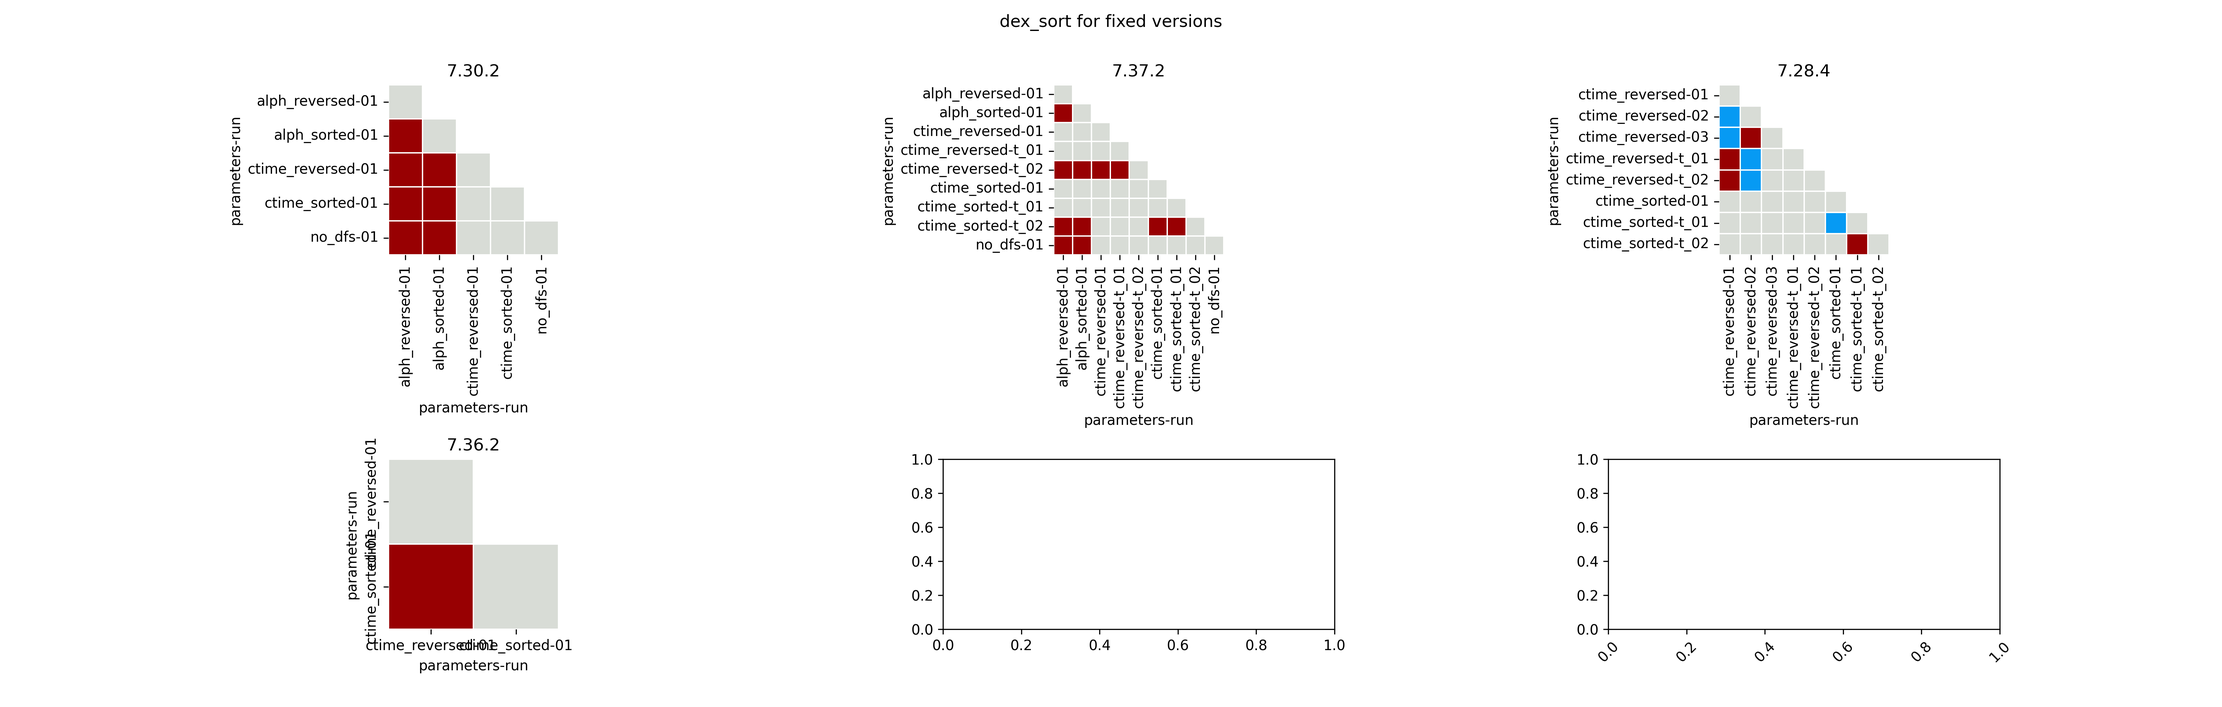
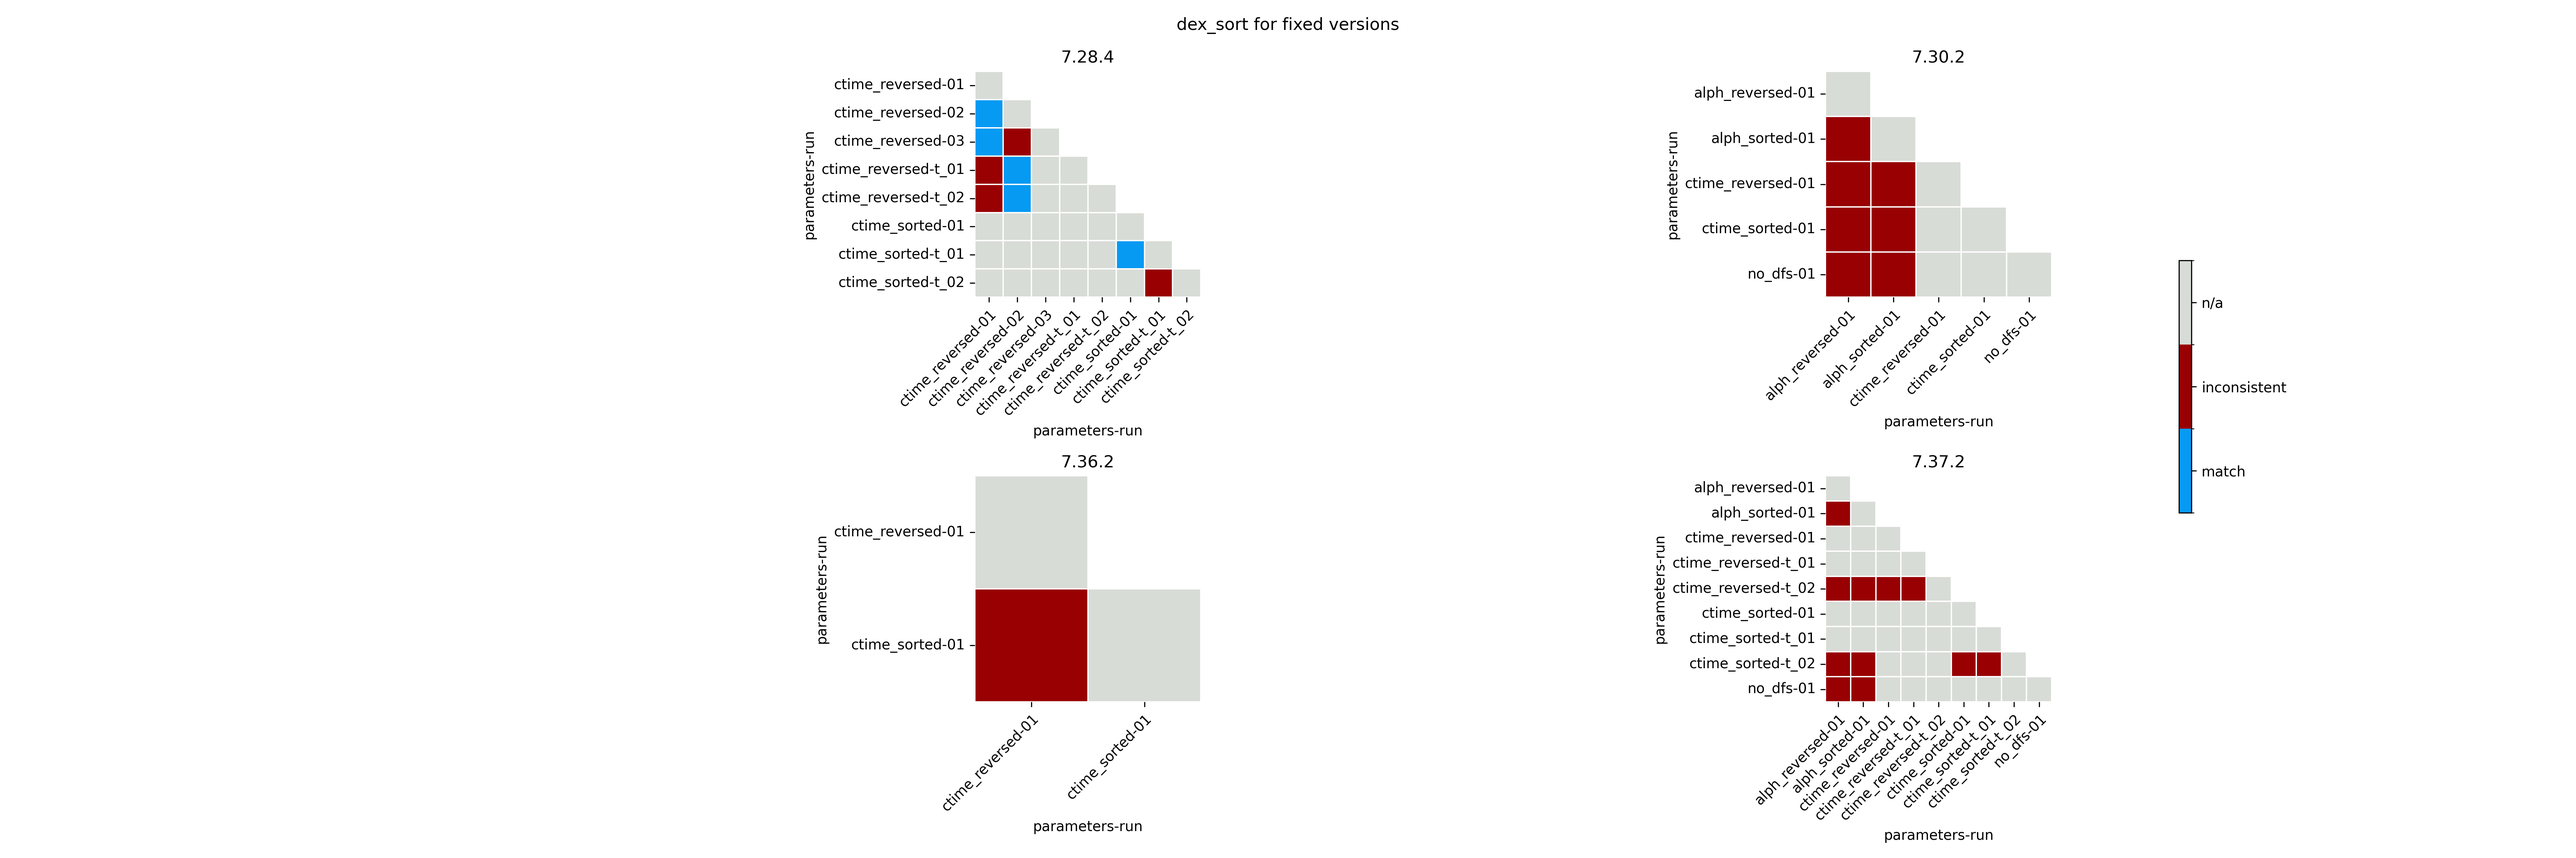
plots are sorta decent (code is terriblu)

diff --git a/analysis/plotinator.py b/analysis/plotinator.py
@@ -91,6 +91,8 @@ def subfigures(test, fixed_version):
     all_files = os.listdir(root)
     i = 0
     plot_idx = 1
+
+    successful_plots = []
     # call plotting
     for x in range(nr_x):
         for y in range(nr_y):
@@ -109,10 +111,111 @@ def subfigures(test, fixed_version):
                 axes[x, y].set_title(
                     all_files[i].replace(".json", "").replace("_", " ")
                 )
+                # Record the successful plot
+                successful_plots.append(
+                    {
+                        "ax": axes[x, y],
+                        "title": all_files[i].replace(".json", "").replace("_", " "),
+                        "position": (x, y),
+                    }
+                )
                 i = i + 1
                 plot_idx = plot_idx + 1
                 # axes[x, y].tick_params(axis='x', labelrotation=45)
-    plt.subplots_adjust(hspace=1.2, wspace=0.7)
+            else:
+                # No more files to plot, hide the remaining axes
+                axes[x, y].set_visible(False)
+
+    cbar_shrink = 0.5
+    total_plots = len(successful_plots)
+    if total_plots > 0:
+        # Calculate optimal grid dimensions
+        optimal_cols = int(np.ceil(np.sqrt(total_plots)))
+        optimal_rows = int(np.ceil(total_plots / optimal_cols))
+
+        # Only rearrange if the current layout is not optimal
+        if nr_x != optimal_rows or nr_y != optimal_cols:
+            print(f"Rebalancing layout to {optimal_rows}x{optimal_cols}")
+            cbar_shrink = 0.4
+            # Hide all current axes
+            for x in range(nr_x):
+                for y in range(nr_y):
+                    axes[x, y].set_visible(False)
+
+            # Create a new figure with optimal dimensions
+            new_fig, new_axes = plt.subplots(
+                nrows=optimal_rows,
+                ncols=optimal_cols,
+                figsize=(optimal_cols * 12.75, optimal_rows * 4.25),
+            )
+
+            # Make sure new_axes is a 2D array
+            if optimal_rows == 1 and optimal_cols == 1:
+                new_axes = np.array([[new_axes]])
+            elif optimal_rows == 1:
+                new_axes = new_axes.reshape(1, -1)
+            elif optimal_cols == 1:
+                new_axes = new_axes.reshape(-1, 1)
+
+            # Copy content from old figure to new figure
+            for idx, plot in enumerate(successful_plots):
+                new_x = idx // optimal_cols
+                new_y = idx % optimal_cols
+
+                # Get the old plot's content and transfer it
+                # This is a simplified approach - in reality, you may need to
+                # re-run correlation_triangle with the new axes
+                old_ax = plot["ax"]
+                new_ax = new_axes[new_x, new_y]
+
+                # Transfer the title
+                new_ax.set_title(plot["title"])
+
+                # Re-run correlation_triangle with the new axis
+                # old_pos = plot['position']
+                file_name = plot["title"].replace(" ", "_") + ".json"
+                correlation_triangle(
+                    fixed_version, new_ax, os.path.join(root, file_name)
+                )
+
+            # Set the title on the new figure
+            new_fig.suptitle(f"{test} for {version_or_params.replace('_', ' ')}")
+
+            # # Adjust spacing for the new figure
+            # new_fig.subplots_adjust(hspace=1.4, wspace=0.9)
+
+            # # Save the new figure and close the old one
+            # new_fig.savefig(os.path.join(PLOT_ROOT, f"{test}_{version_or_params}"), dpi=300)
+            plt.close(fig)
+
+            fig = new_fig
+            axes = new_axes
+            # return
+
+    # plt.subplots_adjust(hspace=1.4, wspace=1.4)
+    plt.tight_layout()
+
+    # cax = plt.axes((0.85, 0.1, 0.075, 0.8))
+    # plt.colorbar(cax=cax)
+    import matplotlib as mpl
+
+    # cmap = mpl.cm.viridis
+
+    colors = ["xkcd:azure", "xkcd:blood red", "xkcd:light grey"]
+    cmap = LinearSegmentedColormap.from_list("Custom", colors, len(colors))
+    # cmap = (mpl.colors.ListedColormap(['red', 'green', 'blue']))
+    bounds = [0, 1, 2, 3]
+    norm = mpl.colors.BoundaryNorm(bounds, 4)
+
+    cbar = fig.colorbar(
+        mpl.cm.ScalarMappable(norm=norm, cmap=cmap),
+        ax=axes,
+        orientation="vertical",
+        ticks=[0.5, 1.5, 2.5],
+        shrink=cbar_shrink,
+    )
+    cbar.set_ticklabels(["match", "inconsistent", "n/a"])
+
     plt.savefig(os.path.join(PLOT_ROOT, f"{test}_{version_or_params}"), dpi=300)
 
 
@@ -162,7 +265,16 @@ def correlation_triangle(fixed_version, ax, filepath, cbar_ax=None):
                 colorbar.set_ticks([0, 1, 2])
                 # # I save (len(diff) > 0) => true means inconsitent
                 colorbar.set_ticklabels(["match", "inconsistent", "n/a"])
-            plt.xticks(rotation=45)
+                colorbar.visible = False
+            # plt.xticks(rotation=90)
+            plt.setp(
+                ax.get_xticklabels(), rotation=45, ha="right", rotation_mode="anchor"
+            )
+            plt.setp(
+                ax.get_yticklabels(), rotation=0, ha="right", rotation_mode="anchor"
+            )
+
+            # ax.set_yticks(rotation=90)
     else:
         print(f"Skipped {filepath}...")
         return False
@@ -194,7 +306,7 @@ def visualize():
         print(test)
         for fixed_version in [True, False]:
             subfigures(test, fixed_version)
-        break
+        # break
     # plt.savefig()
     # plt.tight_layout()
     # plt.show()
